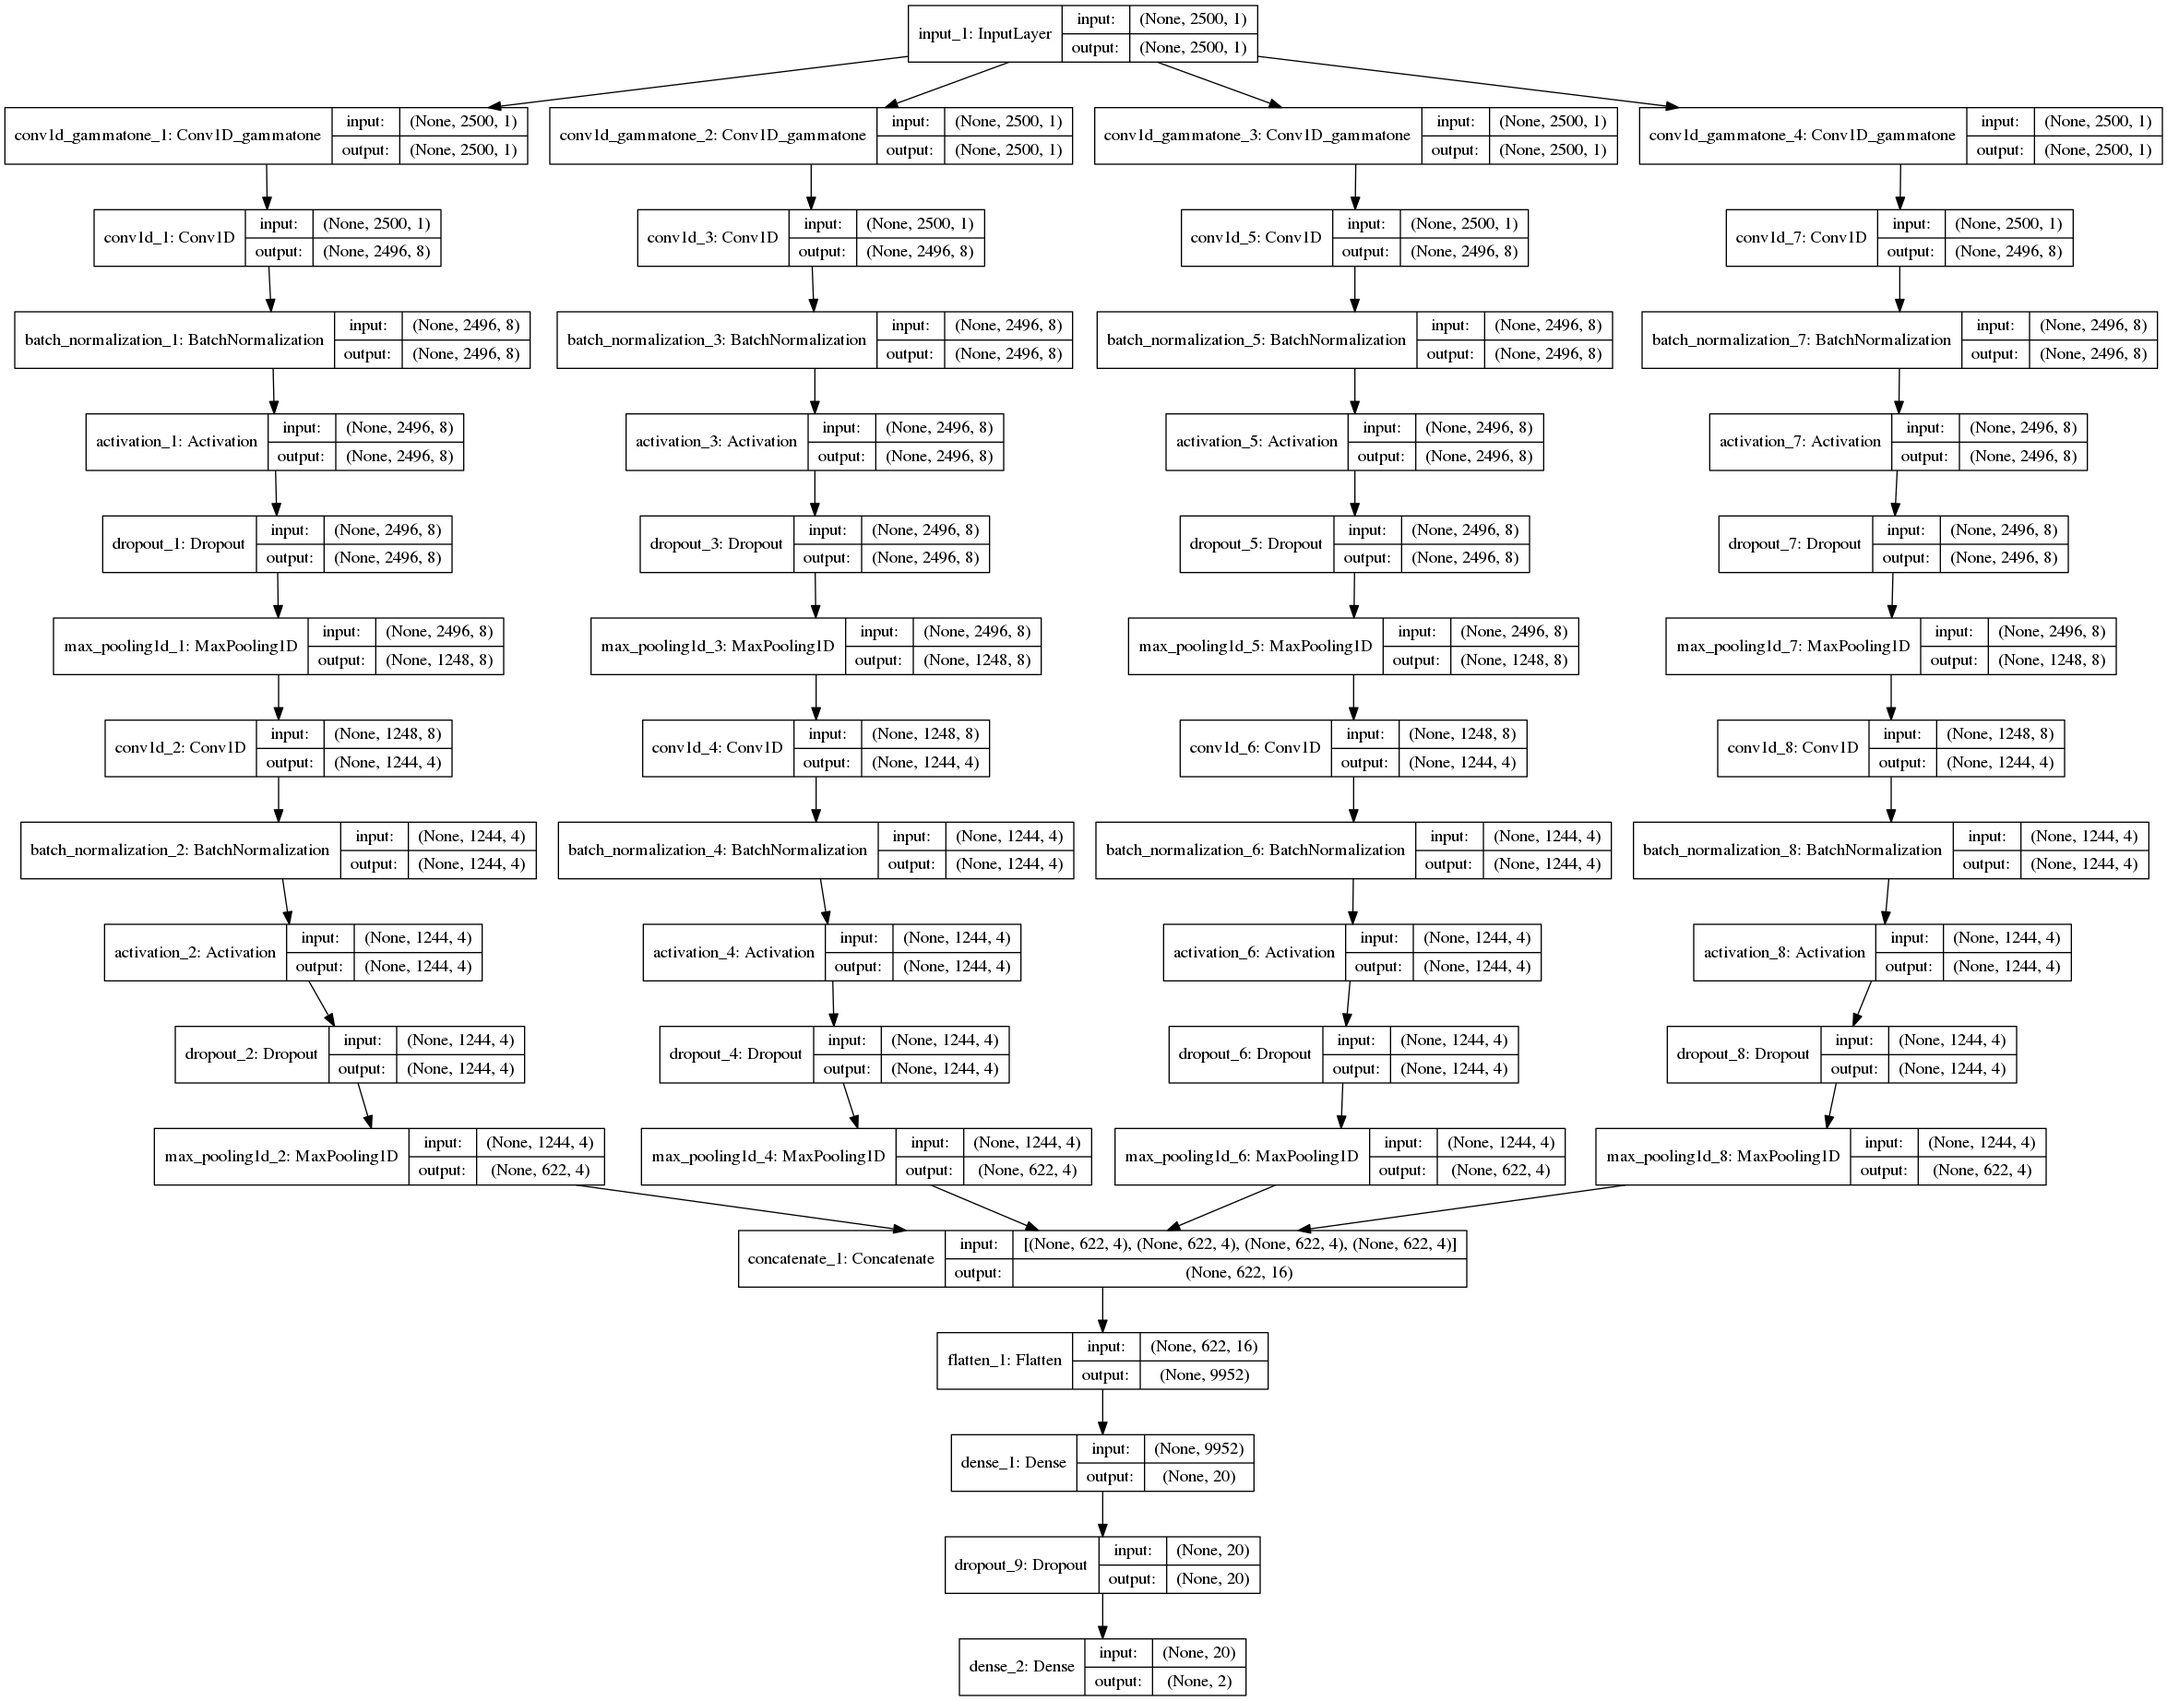
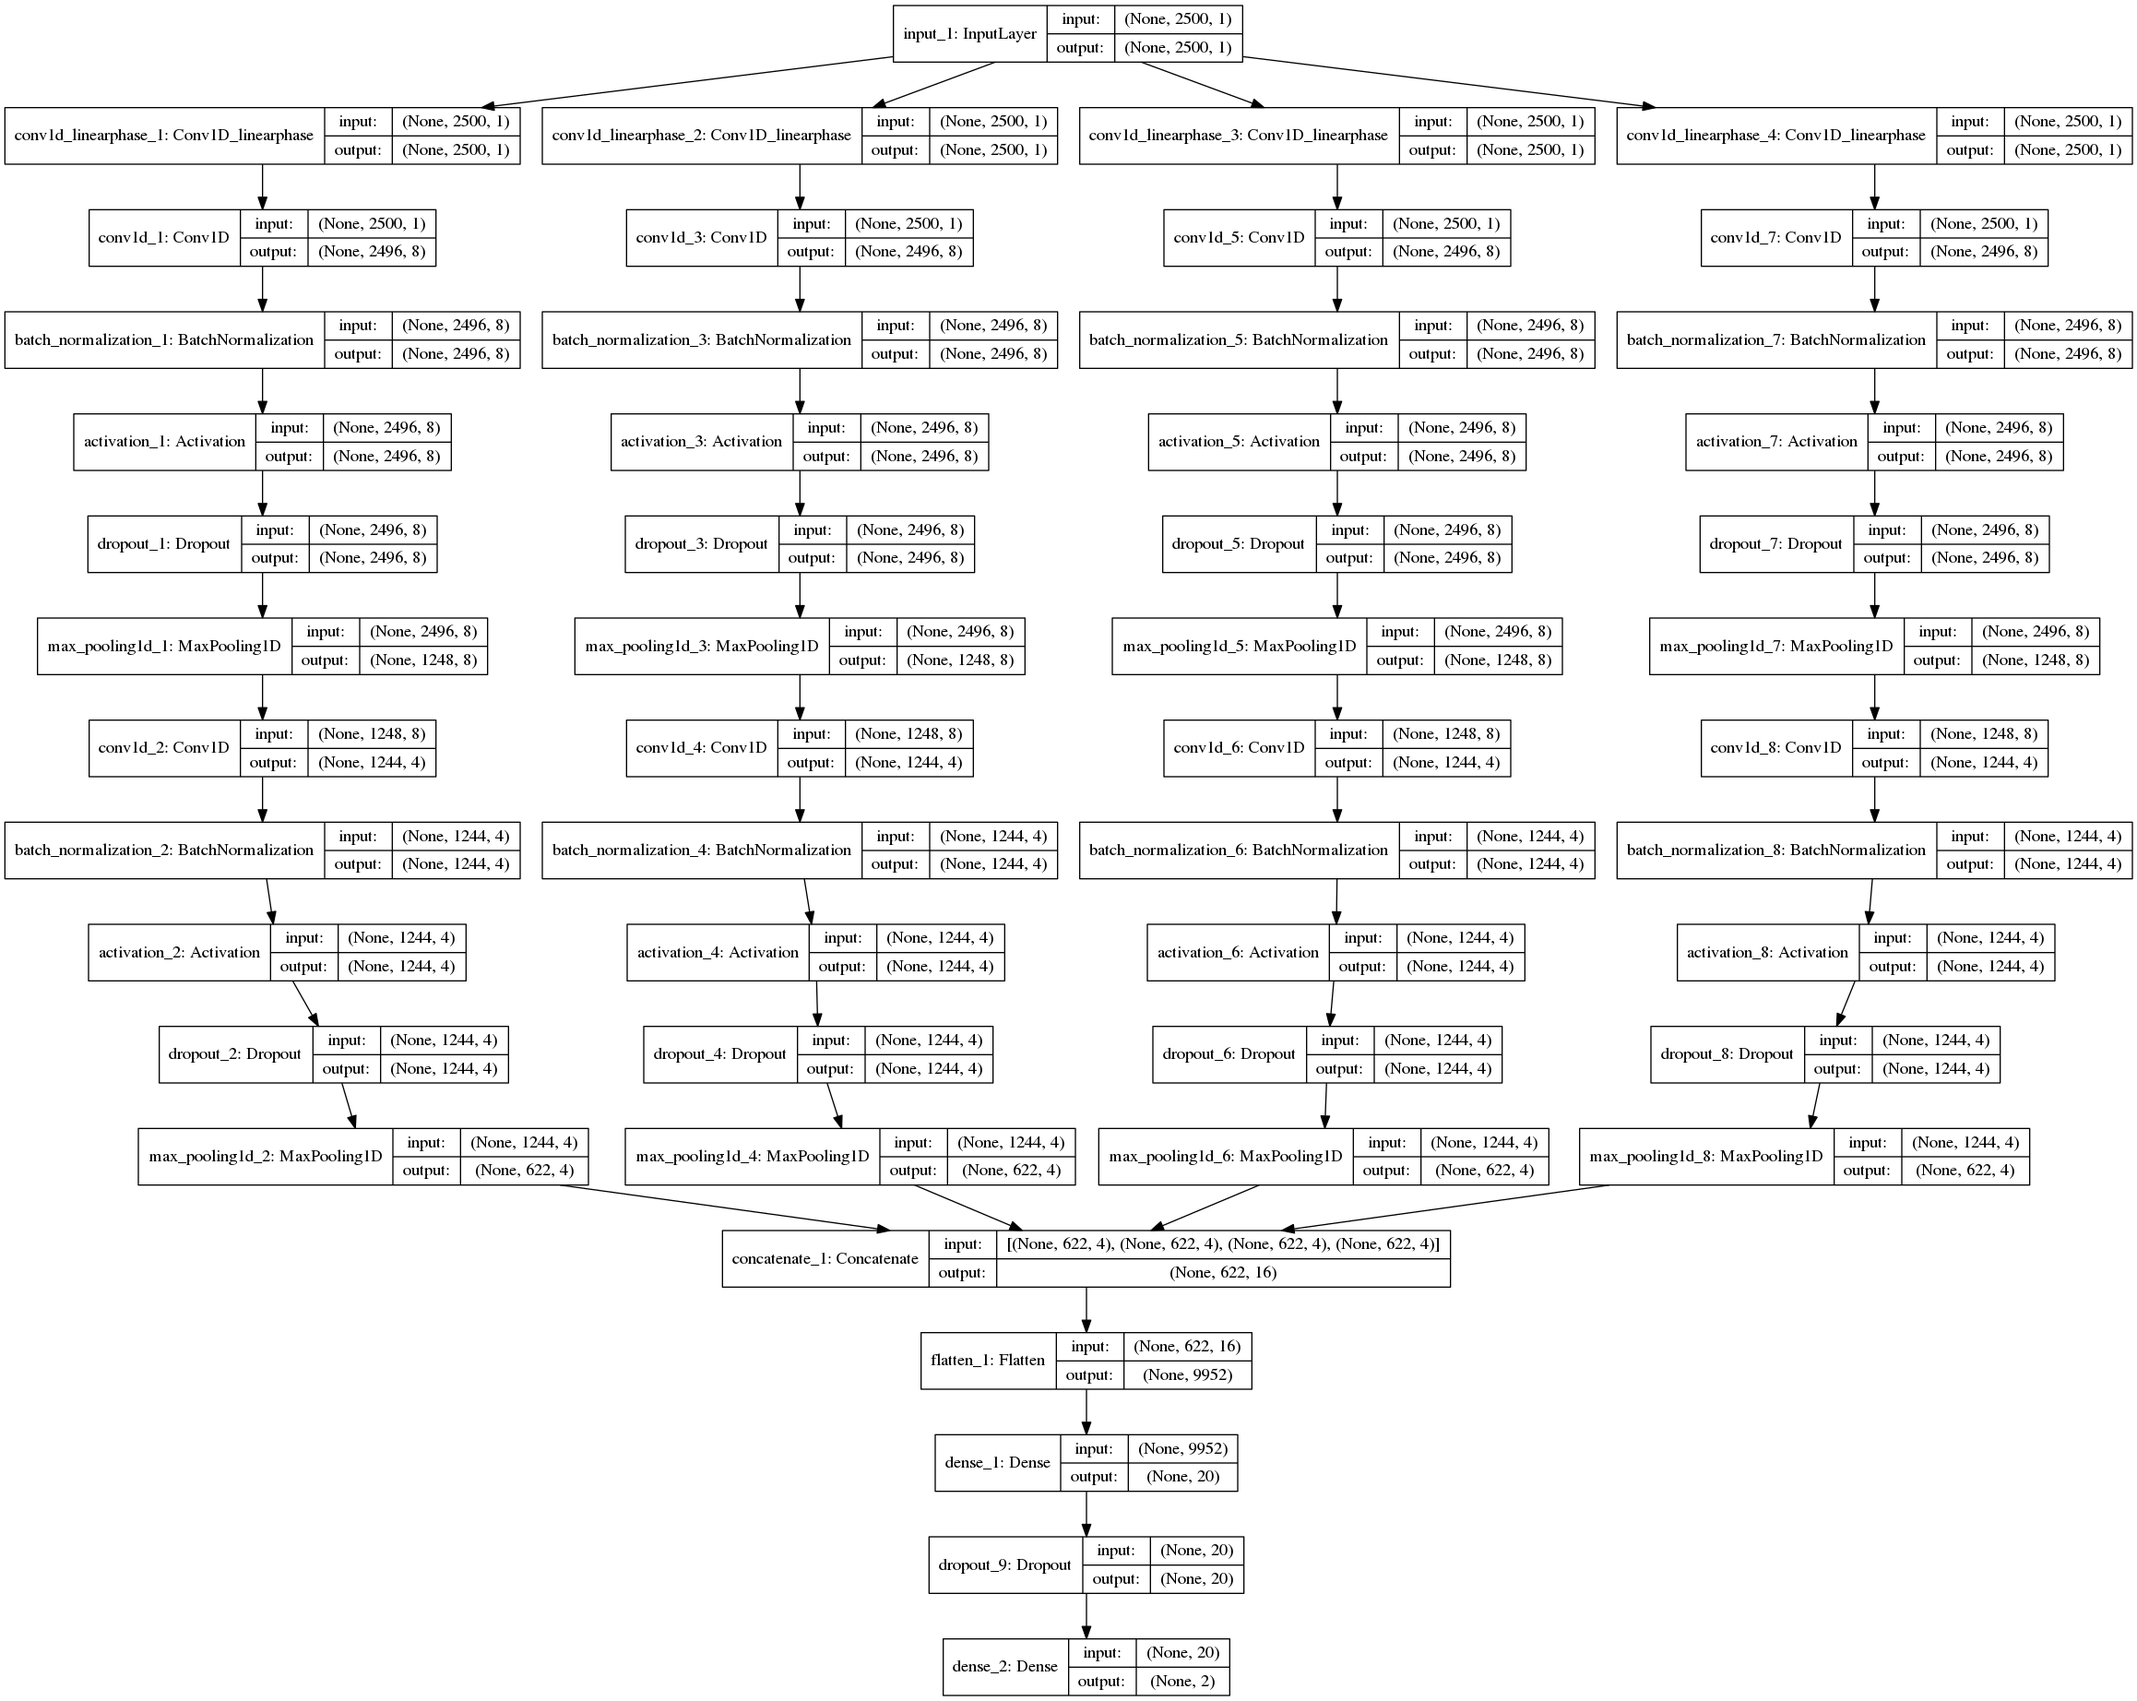
random init LP-tConv

diff --git a/codes/heartnet_v2.py b/codes/heartnet_v2.py
@@ -92,22 +92,22 @@ def heartnet(load_path,activation_function='relu', bn_momentum=0.99, bias=False,
 
     ## Conv1D_linearphase
 
-    # input1 = Conv1D_linearphase(1 ,61, use_bias=False,
-    #                 # kernel_initializer=initializers.he_normal(random_seed),
-    #                 weights=[b1[30:]],
-    #                 padding='same',trainable=FIR_train)(input)
-    # input2 = Conv1D_linearphase(1, 61, use_bias=False,
-    #                 # kernel_initializer=initializers.he_normal(random_seed),
-    #                 weights=[b2[30:]],
-    #                 padding='same',trainable=FIR_train)(input)
-    # input3 = Conv1D_linearphase(1, 61, use_bias=False,
-    #                 # kernel_initializer=initializers.he_normal(random_seed),
-    #                 weights=[b3[30:]],
-    #                 padding='same',trainable=FIR_train)(input)
-    # input4 = Conv1D_linearphase(1, 61, use_bias=False,
-    #                 # kernel_initializer=initializers.he_normal(random_seed),
-    #                 weights=[b4[30:]],
-    #                 padding='same',trainable=FIR_train)(input)
+    input1 = Conv1D_linearphase(1 ,61, use_bias=False,
+                    # kernel_initializer=initializers.he_normal(random_seed),
+                    weights=[b1[30:]],
+                    padding='same',trainable=FIR_train)(input)
+    input2 = Conv1D_linearphase(1, 61, use_bias=False,
+                    # kernel_initializer=initializers.he_normal(random_seed),
+                    weights=[b2[30:]],
+                    padding='same',trainable=FIR_train)(input)
+    input3 = Conv1D_linearphase(1, 61, use_bias=False,
+                    # kernel_initializer=initializers.he_normal(random_seed),
+                    weights=[b3[30:]],
+                    padding='same',trainable=FIR_train)(input)
+    input4 = Conv1D_linearphase(1, 61, use_bias=False,
+                    # kernel_initializer=initializers.he_normal(random_seed),
+                    weights=[b4[30:]],
+                    padding='same',trainable=FIR_train)(input)
 
     # ## Conv1D_linearphase Anti-Symmetric
     #
@@ -129,11 +129,11 @@ def heartnet(load_path,activation_function='relu', bn_momentum=0.99, bias=False,
     #                 padding='same',trainable=FIR_train, type = 3)(input)
 
     #Conv1D_gammatone
-
-    input1 = Conv1D_gammatone(kernel_size=81,filters=1,fsHz=1000,use_bias=False,padding='same')(input)
-    input2 = Conv1D_gammatone(kernel_size=81,filters=1,fsHz=1000,use_bias=False,padding='same')(input)
-    input3 = Conv1D_gammatone(kernel_size=81,filters=1,fsHz=1000,use_bias=False,padding='same')(input)
-    input4 = Conv1D_gammatone(kernel_size=81,filters=1,fsHz=1000,use_bias=False,padding='same')(input)
+    #
+    # input1 = Conv1D_gammatone(kernel_size=81,filters=1,fsHz=1000,use_bias=False,padding='same')(input)
+    # input2 = Conv1D_gammatone(kernel_size=81,filters=1,fsHz=1000,use_bias=False,padding='same')(input)
+    # input3 = Conv1D_gammatone(kernel_size=81,filters=1,fsHz=1000,use_bias=False,padding='same')(input)
+    # input4 = Conv1D_gammatone(kernel_size=81,filters=1,fsHz=1000,use_bias=False,padding='same')(input)
 
     t1 = branch(input1,num_filt,kernel_size,random_seed,padding,bias,maxnorm,l2_reg,
            eps,bn_momentum,activation_function,dropout_rate,subsam,trainable)
